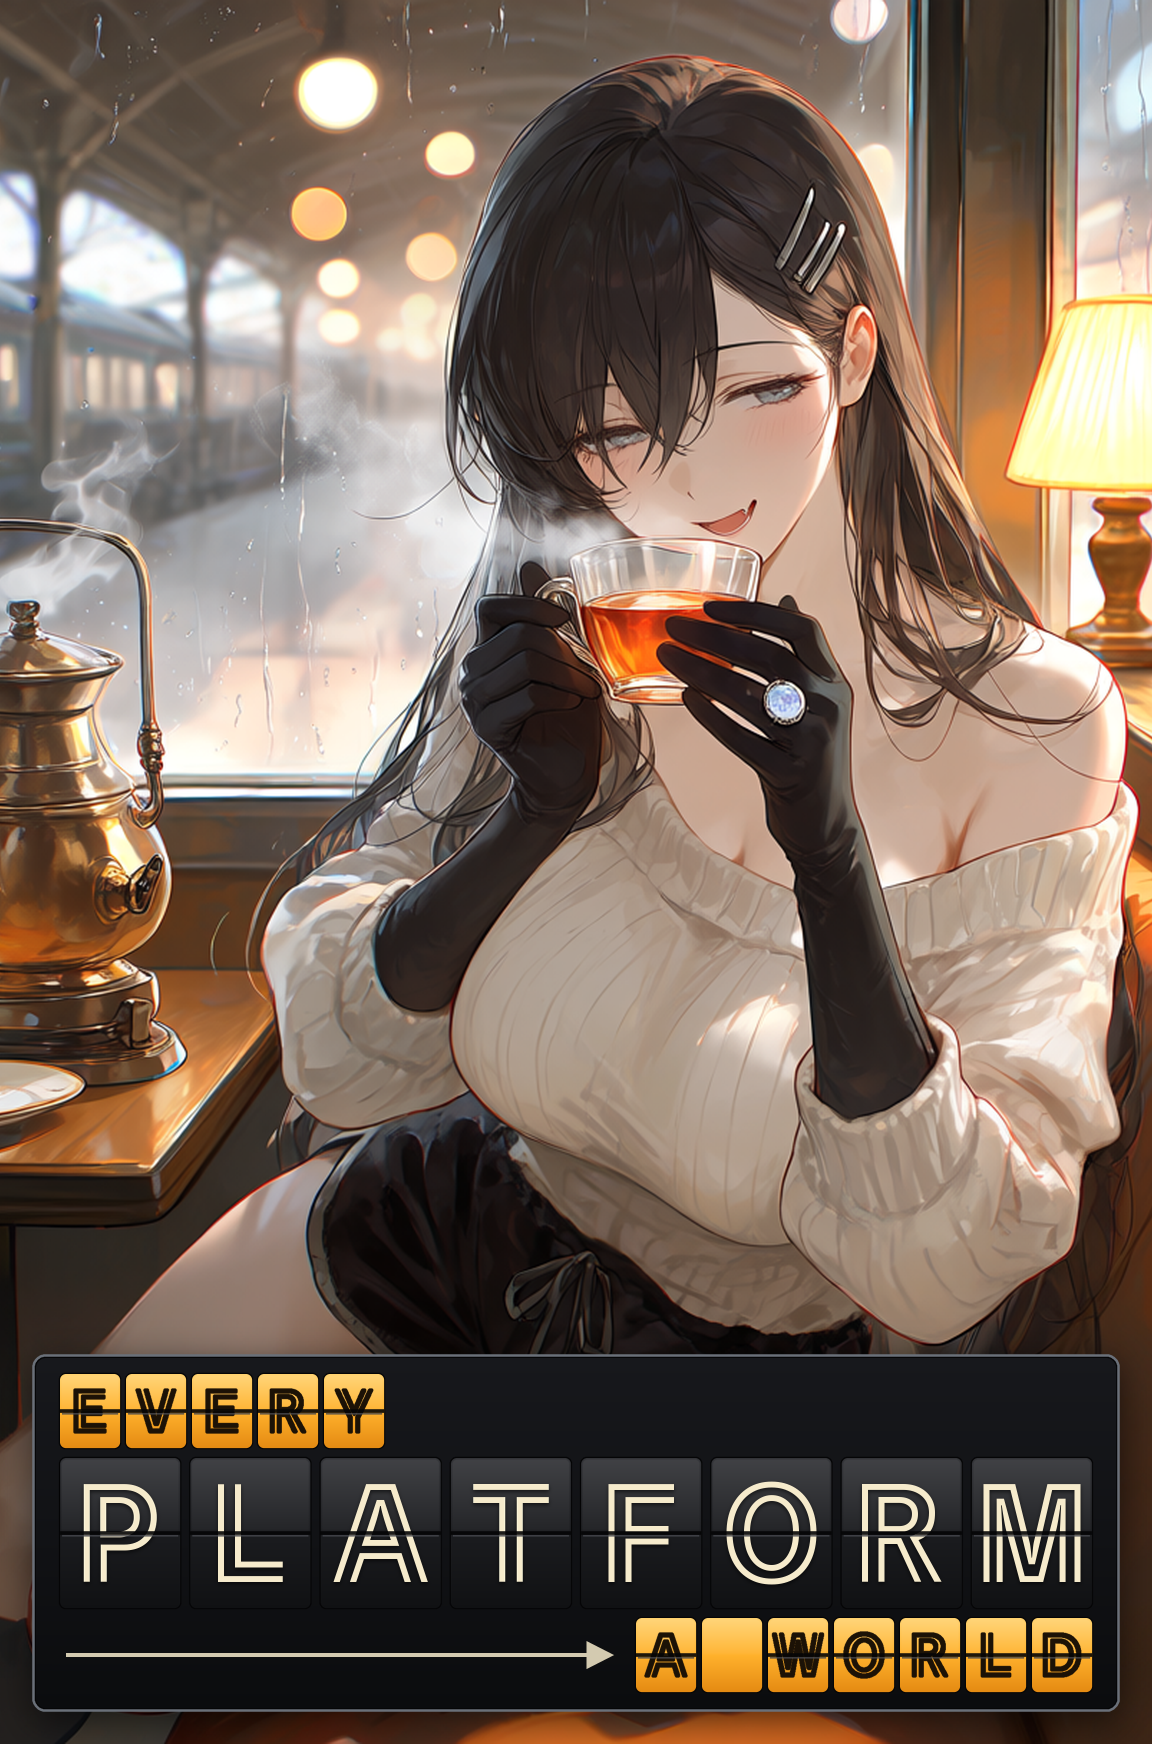
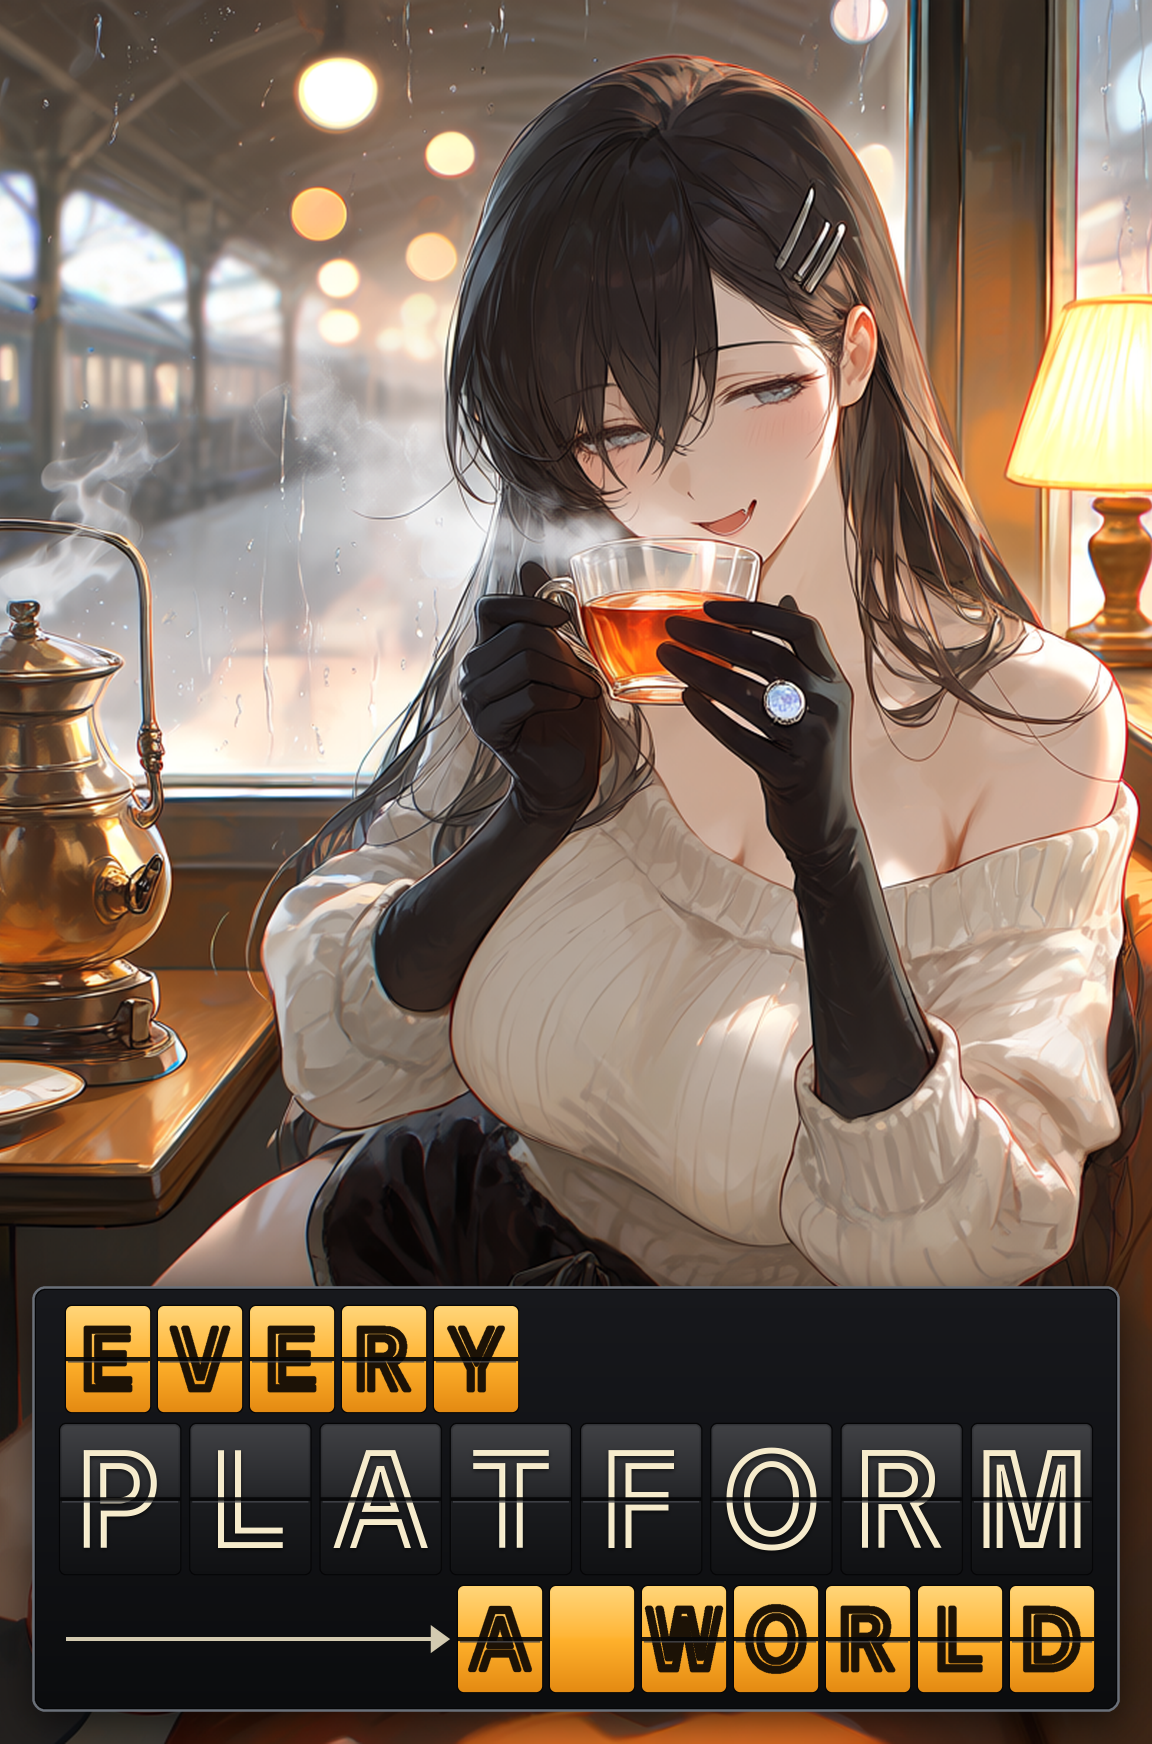
Cover titles v4: bigger small words on Shrine Fox, Paid to Kill Me, Crest, Every Platform
Shrine Fox: Married to the 68 -> 92 px with a 5 px dark keyline; SHRINE /
FOX 110 / 182 -> 102 / 166 so the stack still clears the tails. Paid to
Kill Me: TO cap 52 -> 72 (about half of KILL), PAID stamp cap 64 -> 74.
Crest Academy: ACADEMY 50 px tracked .55 -> 92 px tracked .22, white-silver
with a navy keyline on the ribbon. Every Platform a World: the amber EVERY
and A WORLD flaps 60x74 / cap 42 -> 84x106 / cap 62, the housing taller to
fit, arrow shortened to the new A flap. ALLOCATION rows and zones updated;
the checker passes.

Changed region(s): [[0.0, 0.7122, 1.0, 0.9908]]

diff --git a/docs/stories-50/cover-style-v3/titles/ALLOCATION.md b/docs/stories-50/cover-style-v3/titles/ALLOCATION.md
@@ -46,24 +46,24 @@ are at least ~45% of its cap height, so every word still reads on a 160 px shelf
 | 2 | story_annulled_then_claimed | Annulled, Then Claimed | gilded-over-the-shoulder | Villainess romance fantasy; scandal turned rescue, glamorous | Great Vibes | Cinzel | BT | gold swash + strike rule | .08-.92,.70-.95 | .44-.64,.05-.22 | "ANNULLED, THEN" in Cinzel 800 ivory caps at 88 px (cap about 62 px; was 62 px tracked wide, lost on the shelf) with a dark-green keyline and shadow, and a crimson rule struck through ANNULLED; hero "Claimed" huge in Great Vibes, gold metal fill, deep-emerald stroke and a swash underline, centred on the emerald coat. Gold on emerald, one red line. |
 | 3 | story_back_row_at_my_own_wedding | Back Row at My Own Wedding | melodrama-red-accent | Modern revenge melodrama with comedy; humiliation at the altar | Parisienne | Playfair Display | LR | chalk welcome board | .24-.98,.70-.97 | .17-.44,.18-.36; .50-.74,.03-.19 | The wedding welcome board, big: a charcoal slate with a gold frame, tilted -3 deg, 73% of the cover wide at lower right under both faces, where her hand seems to hold it and the roses show below. Hero "Back Row" in Parisienne chalk at a 124 px cap with a 3 px chalk stroke so the script has weight; "AT MY OWN WEDDING" in Playfair Display 700 caps at a 44 px cap; above them a crossed-out "Front Row" in chalk with a red chalk strike and a red chalk heart. Chalk white on slate against blue church light and red roses. |
 | 4 | story_cleanup_crew_e_rank | Cleanup Crew, E-Rank | system-window | Dungeon action comedy, underdog; blue-collar | Bungee | none | DG | hazard tape | .04-.96,.08-.29 | .42-.60,.34-.48 | Hazard tape strung across the corridor in front of the red gate, rising +7 deg above her head: hero "CLEANUP CREW" in black Bungee on yellow #ffd21a tape with black chevron ends, and "E-RANK" smaller in a worn grey hex rank badge (red E) pinned to the tape end. Yellow and black against acid green; the gate stays half visible. |
-| 5 | story_crest_academy | Crest Academy | holy-high-key | Noble academy fantasy, stats and duels; bright rivalry | Marcellus | none | BT | academy seal lockup | .10-.90,.63-.97 | .42-.66,.06-.24 | An academy seal: a large navy enamel shield (silver rim and inline, a silver star over two crossed rapiers) stands behind the middle of hero "CREST", set across it in Marcellus at about 76% of the cover width, navy enamel with a silver keyline, a navy edge and a pearl halo so the letters read on the white skirt and on the shield; "ACADEMY" in widely tracked silver Marcellus on a navy ribbon with forked tails over the shield's point. Navy and silver on pearl white. |
+| 5 | story_crest_academy | Crest Academy | holy-high-key | Noble academy fantasy, stats and duels; bright rivalry | Marcellus | none | BT | academy seal lockup | .10-.90,.61-.97 | .42-.66,.06-.24 | An academy seal: a large navy enamel shield (silver rim and inline, a silver star over two crossed rapiers) stands behind the middle of hero "CREST", set across it in Marcellus at about 76% of the cover width, navy enamel with a silver keyline, a navy edge and a pearl halo so the letters read on the white skirt and on the shield; "ACADEMY" in Marcellus at 92 px (cap about 65 px; was 50 px tracked wide, lost on the shelf), white-silver with a navy keyline, on a navy ribbon with forked tails over the shield's point. Navy and silver on pearl white. |
 | 6 | story_cut_loose_at_floor_99 | Cut Loose at Floor 99 | ink-and-one-red | Dark fantasy dungeon survival and revenge; cold, grim | Stardos Stencil | none | LL | carved stencil + red slice | .03-.62,.62-.98 | .48-.63,.12-.27 | One lower-left block over the black coat and the rocks, upright and cold: "CUT LOOSE" / "AT FLOOR" in Stardos Stencil 700 bone white with a black stroke (76 px cap), directly over a giant hero "99" (356 px cap) in the same stencil serif, carved: a stone-grey fill with a chisel bevel and a hard black shadow. One red cut slices both 9s on a steep diagonal: a see-through gap with a red line in it, the lower half slid down along the cut. Ink and one red. (Was Rubik Dirt, whose round speckled 9s read as cartoon.) |
 | 7 | story_echo_class | Echo Class | thumbnail-pop | Superpower academy action comedy; loud, cocky | Russo One | Teko | LR | outline echoes | .36-.96,.78-.97 | .38-.64,.14-.32 | Hero "ECHO" in Russo One, white with a black stroke and a +8 deg slant, trailed by three outline-only copies offset down-left in electric blue #2aa7ff fading 70/40/15% (the copied power); "CLASS" in Teko 700 white on a blue parallelogram tab. Right-aligned over the hips; flat yellow and blue. |
-| 8 | story_every_platform_a_world | Every Platform a World | cosy-lamp-bokeh | Isekai station-keeper fantasy; warm, wistful mystery | Train One | none | BT | split-flap departure board | .03-.97,.77-.99 | .53-.75,.07-.26 | A railway departure board across the bottom, over her legs: a black split-flap housing with a thin steel rim; hero "PLATFORM" in cream Train One on eight big black flaps (a dark split line across each), "EVERY" on small amber flaps above it at the left, and "A WORLD" on amber flaps at the right of the bottom row, led in by a long cream arrow. Cream, amber and black against the lamplit carriage. No hanging sign, no paper card (that is the One-Copper Inn's device). |
+| 8 | story_every_platform_a_world | Every Platform a World | cosy-lamp-bokeh | Isekai station-keeper fantasy; warm, wistful mystery | Train One | none | BT | split-flap departure board | .03-.97,.73-.99 | .53-.75,.07-.26 | A railway departure board across the bottom, over her legs: a black split-flap housing with a thin steel rim; hero "PLATFORM" in cream Train One on eight big black flaps (a dark split line across each), "EVERY" on amber flaps above it at the left, and "A WORLD" on amber flaps at the right of the bottom row, led in by a long cream arrow; the amber flaps are 84x106 with a 62 px cap (were 60x74 at 42), the housing taller to fit. Cream, amber and black against the lamplit carriage. No hanging sign, no paper card (that is the One-Copper Inn's device). |
 | 9 | story_finals_week_outbreak | Finals Week Outbreak | ink-and-one-red | Campus zombie horror; 2 a.m. dread | Black Ops One | Big Shoulders Display | LL | torn label + stencil (sample) | .04-.62,.73-.97 | .36-.63,.10-.34 | Sample, kept as approved: torn paper label with tape, "FINALS WEEK" in Big Shoulders Display black, hero "OUTBREAK" in red Black Ops One stencil, tilted -6 deg. Ink white and one red. |
 | 10 | story_he_burned_the_capital | He Burned the Capital | melodrama-red-accent | Dark romance fantasy; obsession, dread, longing | Cinzel | Cormorant | BT | fire gradient + embers | .06-.94,.72-.96 | .32-.58,.05-.26; .62-.84,.05-.20 | "He Burned the" in Cormorant italic 700, ivory with a dark stroke; hero "CAPITAL" in Cinzel 900 with a fire gradient (deep red to orange to gold, bottom to top), an ember-orange screen glow, scattered ember sparks and a smoky dark shadow. Fire over the dark coat and crimson dress. |
 | 11 | story_human_row_three | Human, Row Three | hot-pink-poster | Monster-academy romcom; bright, cheeky | Dela Gothic One | Teko | DG | extruded pop + halftone | .04-.96,.75-.97 | .33-.63,.05-.23 | Hero "HUMAN," in Dela Gothic One, hot pink #ff3f8e sampled from the field with a white inner stroke, black outer stroke, deep black extrusion and a halftone drop shadow, rising +8 deg across the black trousers; "ROW THREE" in Teko 600 white on a black classroom seat placard under the right end. Flat pink pop poster. |
 | 12 | story_ice_queen_s_fake_boyfriend | Ice Queen’s Fake Boyfriend | sunlit-webtoon-duo | Campus fake-dating romcom; sunny, sweet | Fredoka | Mochiy Pop One + Bungee | TB | sticker letters (sample) | .04-.96,.02-.22 | .17-.39,.34-.53; .54-.80,.27-.48 | Sample, kept as approved: sticker letters with navy stroke and extrusion across the sky, "Ice Queen's" in Mochiy Pop One, a pink "FAKE" tag in Bungee, hero "Boyfriend" in Fredoka. |
 | 13 | story_inherited_one_failing_clan | Inherited: One Failing Clan | gilded-over-the-shoulder | Modern crime-family comedy-drama; found family, deadline | Shippori Mincho B1 | none | DG | gold-leaf family plaque | .04-.94,.63-.98 | .38-.55,.03-.17 | The family's door plaque, the whole lockup tilted -6 deg like a sign hanging crooked: "INHERITED:" in cream Shippori Mincho B1 800 (cap 76) on a rough red hanko-ink label directly above "ONE FAILING" in cream Shippori caps, then hero "CLAN" in black lacquer with a gold-leaf edge on a matte gold-leaf plate in a black lacquer frame, flanked by two black-and-gold four-diamond family mon. Cream, red, black and gold over the green kimono; flat gold leaf, no bevelled letters. |
 | 14 | story_level_one_wyvern_slayer | Level One, Wyvern Slayer | thumbnail-pop | High-fantasy adventure comedy; underdog bravado | Cinzel Decorative | Exo 2 | BT | gold game logo + banner (sample) | .08-.92,.72-.97 | .35-.69,.06-.29 | Sample, kept as approved: gold bevelled game logo, hero "WYVERN SLAYER" in Cinzel Decorative, with a red "LEVEL ONE" banner in Exo 2. |
-| 15 | story_married_to_the_shrine_fox | Married to the Shrine Fox | gilded-over-the-shoulder | Yokai romcom; teasing, imperious, warm | Shojumaru | Cormorant | LR | vermilion lacquer + gold | .38-.96,.76-.96 | .45-.60,.06-.18 | Reworked from the sample so every line reads left to right, nothing turned on its side: "Married to the" in Cormorant italic 600 warm ivory, then hero "SHRINE FOX" in Shojumaru, torii-vermilion #d8432a lacquer fill with an ivory inline and a gold outer stroke, right-aligned over the floor and kimono hem, with small gold fox-fire sparkles. Vermilion and gold on emerald. |
+| 15 | story_married_to_the_shrine_fox | Married to the Shrine Fox | gilded-over-the-shoulder | Yokai romcom; teasing, imperious, warm | Shojumaru | Cormorant | LR | vermilion lacquer + gold | .36-.96,.77-.98 | .45-.60,.06-.18 | Reworked from the sample so every line reads left to right, nothing turned on its side: "Married to the" in Cormorant italic 700 warm ivory at 92 px (was 68) with a dark keyline, then hero "SHRINE FOX" in Shojumaru (102 / 166 px, a little smaller so the stack still clears the tails), torii-vermilion #d8432a lacquer fill with an ivory inline and a gold outer stroke, right-aligned over the floor and kimono hem, with small gold fox-fire sparkles. Vermilion and gold on emerald. |
 | 16 | story_noodles_or_blood | Noodles or Blood | hot-pink-poster | Martial-arts dorm comedy; scrappy, hungry | Potta One | Protest Revolution | DG | noren banner + drips | .10-.83,.68-.98 | .32-.58,.04-.22 | A ramen-shop noren tilted -6 deg across the black trousers: crimson cloth with soft fold shading and a woven brush texture, a darker top hem on a wooden rod, and two slits cut up from the hem so it hangs as three panels. Hero "NOODLES" in fat Potta One cream with a brown stroke, a small "or", and "BLOOD" in Protest Revolution dry brush, also cream with a near-black stroke so the two words balance, with glossy red drips running from its letters down the cloth. Crimson, cream and red on pink. |
 | 17 | story_nova_house | Nova House | cosy-lamp-bokeh | Mind-reading house mystery; cosy on top, menace underneath | Poiret One | none | UL | lamp glow | .03-.47,.02-.19 | .50-.74,.08-.27 | Corner logo in the dark bookcase corner above the lamp: hero "NOVA" in Poiret One across x .03-.47, thickened with a 5 px same-colour stroke and edged with a 4 px dark-brown keyline (#1e1008) so the hairline face holds against the bright window, warm white-gold with a soft screen-blend lamp glow and a four-point nova sparkle on the O; "HOUSE" under it at about 0.7x NOVA's cap with the same stroke and keyline, tracked to the same width. A dark warm spot (#140c05, 0.78) behind it keeps the letters off the bokeh. Amber and cream. |
 | 18 | story_one_miracle_a_day | One Miracle a Day | starlit-night | Minor-god tournament fantasy; hopeful, sweet | Pinyon Script | Marcellus | CG | holy gold glow + starburst | .10-.90,.66-.92 | .43-.53,.11-.18 | Centred in the galaxy gap under the floating goddess: "ONE" and "A DAY" in Marcellus at 124 px (cap about 88 px, was 70 px tracked wide and thin), white-silver with a 7 px navy-black keyline and a dark shadow so they hold on the stars; hero "Miracle" in Pinyon Script with gold metal fill, a 3 px white inner stroke to hold the hairlines and a soft gold halo, a starburst sparkle on the i. Gold on cobalt cosmos. |
 | 19 | story_one_week_she_said | One Week, She Said | cosy-lamp-bokeh | Second-chance romance, slice of life; rainy, tender | Nanum Pen Script | none | LR | sticky note | .50-.96,.74-.96 | .40-.62,.05-.29 | A pale-yellow sticky note with a curled corner and soft shadow, tilted +4 deg over the couch and socks: hero "One week," big and "she said." smaller in Nanum Pen Script blue-ballpoint ink, with seven tally marks and the last one circled. Pastel note on cream sweater and rain-grey. |
 | 20 | story_one_year_bride | One-Year Bride | gilded-over-the-shoulder | Contract-marriage romcom; poised, rule-bound | Alex Brush | Italiana | LL | contract signature + wax seal | .04-.91,.67-.91 | .50-.68,.05-.22 | No card: the contract, signed. Over a dark warm spot on the gold floor at lower left, rising -4 deg: "ONE-YEAR" typed in Italiana ivory at a 78 px cap (was 48), thickened with an ivory inner stroke and a dark keyline, then a dotted "x ...." signature line running 86% of the cover wide, with hero "Bride" signed across it in huge gold Alex Brush (690 px wide, 5 px dark keyline, warm glow) and a gold curled flourish under it, ending in a red wax seal with a B. Gold and ivory over the emerald dress. |
 | 21 | story_pack_rank | Pack Rank | thumbnail-pop | Beastfolk martial academy rivalry; feral, fast | Reggae One | none | DG | claw-scratch cuts | .04-.96,.78-.97 | .34-.64,.14-.34 | "PACK" small over hero "RANK" in Reggae One, white with a black stroke and a steel-grey drop shadow, tilted -5 deg across the trousers and tail, cut by three diagonal claw scratches (see-through gaps) with a cyan electric glow along the cuts. White, black and cyan on yellow. |
-| 22 | story_paid_to_kill_me | Paid to Kill Me | ink-and-one-red | Bodyguard romance thriller; cold, dangerous | Bebas Neue | Alfa Slab One | WR | rubber stamp + ink | .03-.29,.03-.17; .69-.97,.03-.20 | .42-.62,.08-.25 | Wrapped around his head in the rainy sky: "PAID" as a red #d7141d rubber stamp (Alfa Slab One, double rectangle border, distressed, -8 deg) top-left; top-right "TO" small over hero "KILL" / "ME" in Bebas Neue black with a thin white stroke, plus one red ink splatter. Black ink and one red on white. |
+| 22 | story_paid_to_kill_me | Paid to Kill Me | ink-and-one-red | Bodyguard romance thriller; cold, dangerous | Bebas Neue | Alfa Slab One | WR | rubber stamp + ink | .03-.33,.03-.15; .68-.97,.03-.31 | .42-.62,.08-.25 | Wrapped around his head in the rainy sky: "PAID" as a red #d7141d rubber stamp (Alfa Slab One at a 74 px cap, double rectangle border, distressed, -8 deg) top-left; top-right "TO" (cap 72, about half of KILL's; was 52) over hero "KILL" / "ME" in Bebas Neue black with a thin white stroke, plus one red ink splatter. Black ink and one red on white. |
 | 23 | story_rank_zero | Rank Zero | thumbnail-pop | Hero-college action mystery; defiant, explosive | Anton | Orbitron | DG | chrome + LCD readout | .16-.95,.59-.98 | .44-.70,.06-.28 | One lockup tilted -7 deg over the arm and waist: "RANK" in Orbitron 800 (cap about 0.4x ZERO) as a red scanline readout on a black LCD bar with a red status dot, sitting directly on hero "ZERO" in Anton chrome metal with a black keyline; an orange burst with ember sparks behind both (the rating machine caught fire). Chrome, red and fire-orange on yellow. |
 | 24 | story_rent_is_one_true_story | Rent Is One True Story | starlit-night | Supernatural landlord romance; hushed, uncanny | Klee One | none | LR | constellation lettering | .12-.97,.66-.97 | .45-.53,.16-.22 | Constellation lettering in the galaxy under his feet, right-aligned: "Rent Is" (80 px cap) over hero "One True" / "Story" (160 px cap) in Klee One 600, moonlight white with a navy keyline, a same-colour thickening stroke and a strong pale-blue screen glow. Star nodes sit on the letters (the R, the I, the O, the e's, the S, the tail of the y) and glowing star lines join Rent to One, One to Story and Is to True. Starlight white on deep blue, no plate. |
 | 25 | story_rescue_rating | Rescue Rating | hot-pink-poster | Livestreamed superhero romcom; sly, viral | Exo 2 | none | BT | livestream lower third | .04-.96,.80-.97 | .36-.63,.09-.29 | A livestream lower third over the black trousers: a black glass strip with a red "LIVE" pill and viewer count, hero "RESCUE" in Exo 2 black italic 900 white, "RATING" smaller beside a 4.5-star rating bar in yellow. Broadcast white, red and yellow on hot pink. |
